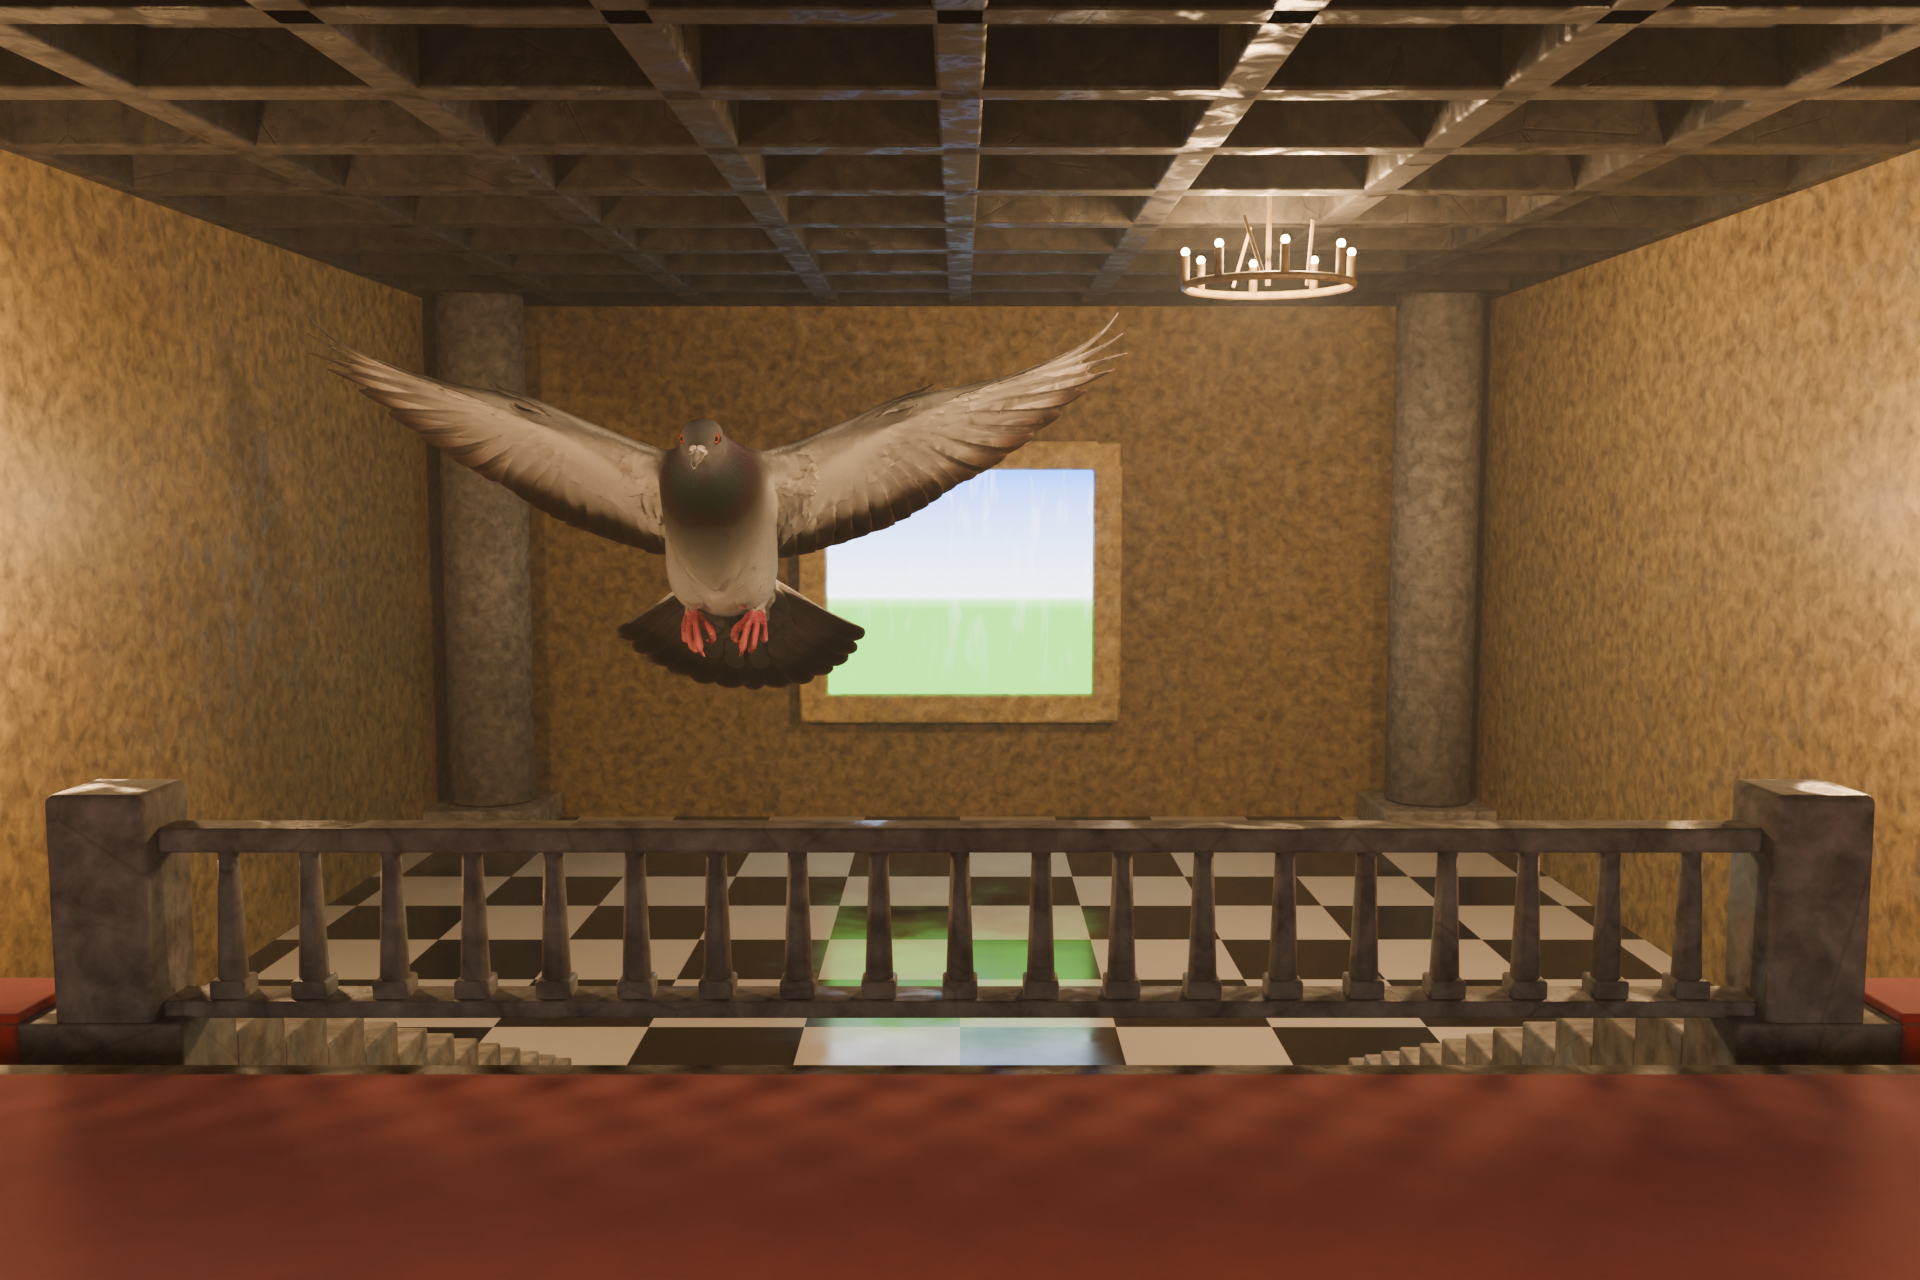
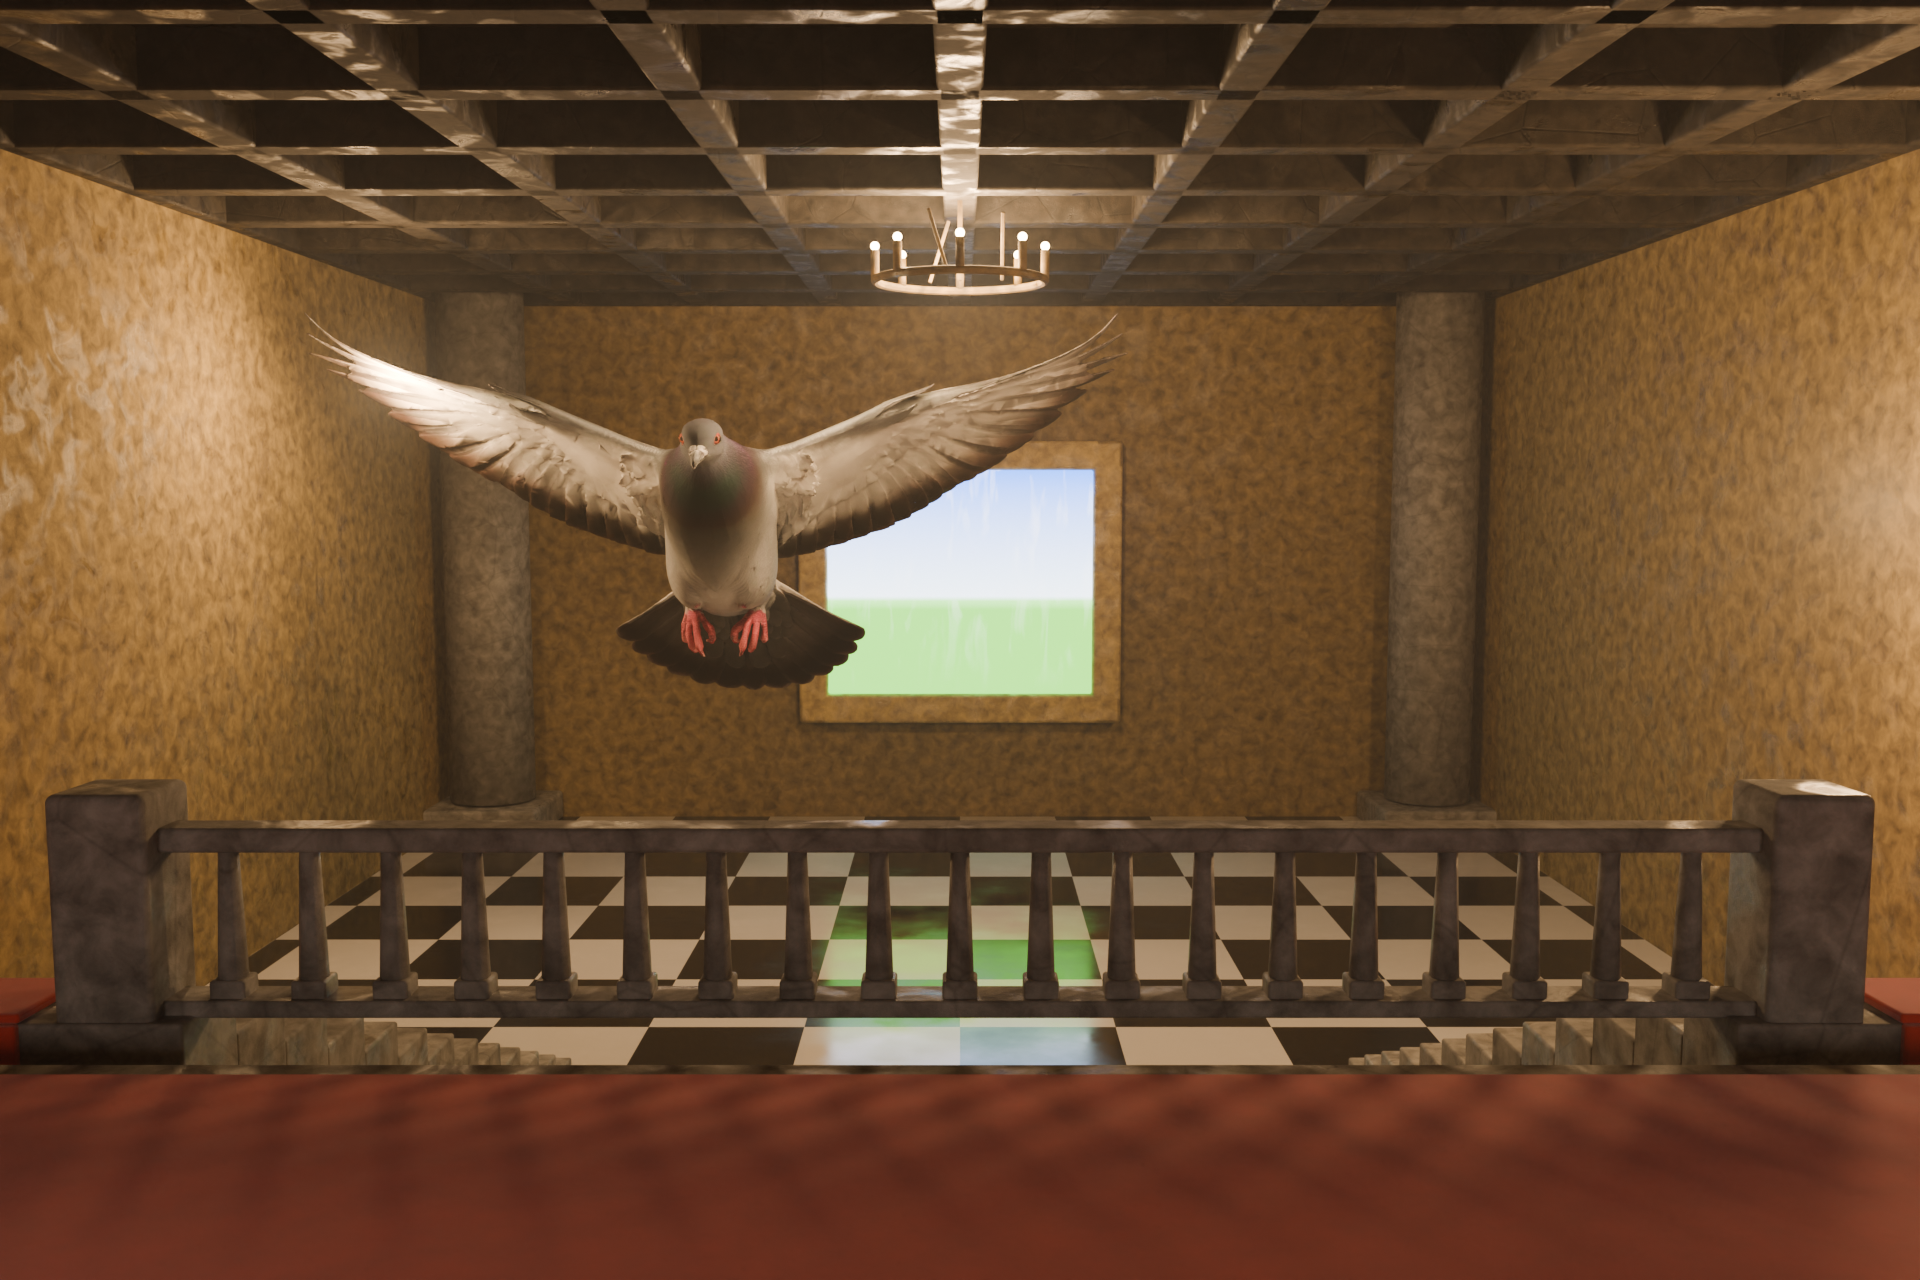
Light the bird so its size is doing something
The chandelier is centred on the room, at the bird's own depth, which is
where a ruler has to be to be read against anything.

The left sconce moved up beside the near wingtip, and that is the size cue.
A shadow will not do this job: the bird flies at 6.1 m under a 10.4 m
ceiling, so every lamp in the room is only four metres above it and throws a
shadow magnified two and a half times -- thirty metres of it, wider than the
hall, which reads as darkness rather than as a bird.

Falloff does it instead. The lamp sits two metres off one wingtip, so the
near wing is lit at two metres and the far one at thirteen, and one is bright
where the other is barely there. Light only falls off across an object when
the object is large compared to its distance from the lamp -- which is
exactly the claim being made, arriving as a gradient instead of an assertion.

Two metres off the wall as well: at 8.7 it burned a hotspot on the plaster
that was the brightest thing in the frame, and the eye went to the wall
rather than to the wing it was there to light.

diff --git a/art/blender/scenes.py b/art/blender/scenes.py
@@ -2184,8 +2184,8 @@ def painted_hall(path):
 
     # --- something the size of a chandelier, being a chandelier --------
     #
-    # Hung to the right of the bird and at much the same depth, because
-    # that is the only place it does any work. An eleven-metre pigeon
+    # Centred on the room, at much the same depth as the bird, because
+    # depth is what makes it work as a ruler. An eleven-metre pigeon
     # fifteen metres off and an ordinary one three metres off project to
     # the same shape; what separates them is having something nearby
     # whose size nobody has to be told.
@@ -2193,7 +2193,7 @@ def painted_hall(path):
                     seed=97, mortar=0.0, relief=0.5, specular=1.2,
                     dark=(0.055, 0.036, 0.012, 1.0),
                     tint=(0.310, 0.205, 0.062, 1.0))
-    hoop_chandelier(3.9, 13.0, CEILING, brass,
+    hoop_chandelier(0.0, 12.5, CEILING, brass,
                     look.glowing("Candle", colour=(1.0, 0.660, 0.300, 1.0),
                                  strength=26.0),
                     drop=1.30, radius=1.05, candles=8, energy=1500)
@@ -2225,9 +2225,25 @@ def painted_hall(path):
     # going where the light lands, and there was nothing on the wall for it
     # to be coming out of anyway -- so the lamps are just gone and only what
     # they do is left.
-    for side in (-1, 1):
-        look.point_light((side * 8.4, 7.0, 6.4), energy=900,
-                         radius=0.45, color=(1.0, 0.615, 0.290))
+    look.point_light((8.4, 7.0, 6.4), energy=900,
+                     radius=0.45, color=(1.0, 0.615, 0.290))
+
+    # The left sconce moved up beside the bird, and it is the size cue.
+    #
+    # A shadow will not do it: the bird flies at 6.1 m under a 10.4 m
+    # ceiling, so any lamp in this room is only four metres above it and
+    # throws a shadow magnified two and a half times -- thirty metres of it,
+    # which is wider than the hall and reads as darkness rather than as a
+    # bird. Falloff does it instead. Put the lamp two metres off the near
+    # wingtip and the near wing is lit at two metres while the far one is
+    # lit at thirteen, so one is bright and the other is barely there. Light
+    # only falls off across an object when the object is large compared to
+    # its distance from the lamp, which is exactly the thing being claimed.
+    # Off the wall by two metres as well: at 8.7 it burned a hotspot on
+    # the plaster that was the brightest thing in the frame, and the eye
+    # went to the wall rather than to the wing it is lighting.
+    look.point_light((-7.6, 13.9, 7.9), energy=680,
+                     radius=0.38, color=(1.0, 0.615, 0.290))
 
     # Two more over the landing, and much less orange than the sconces.
     #
